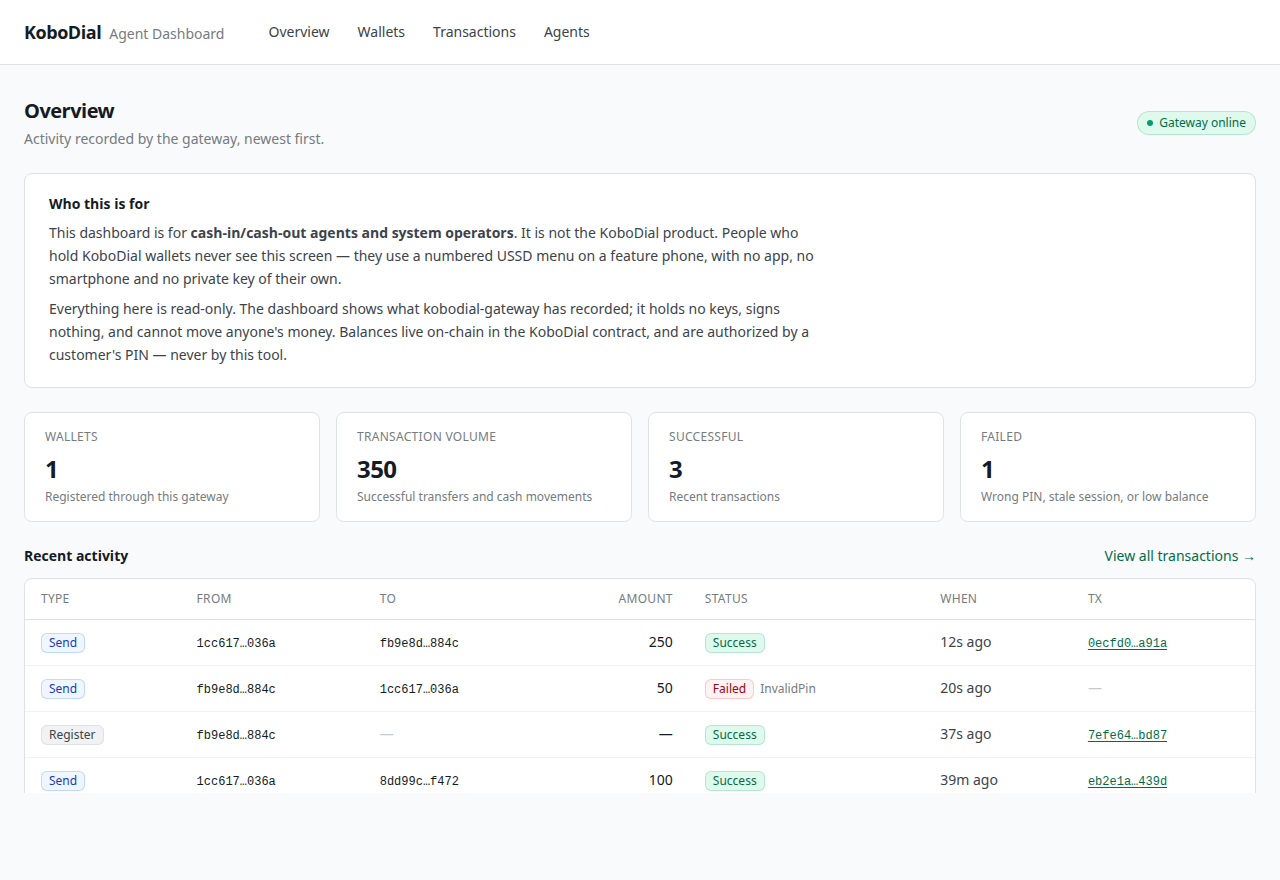
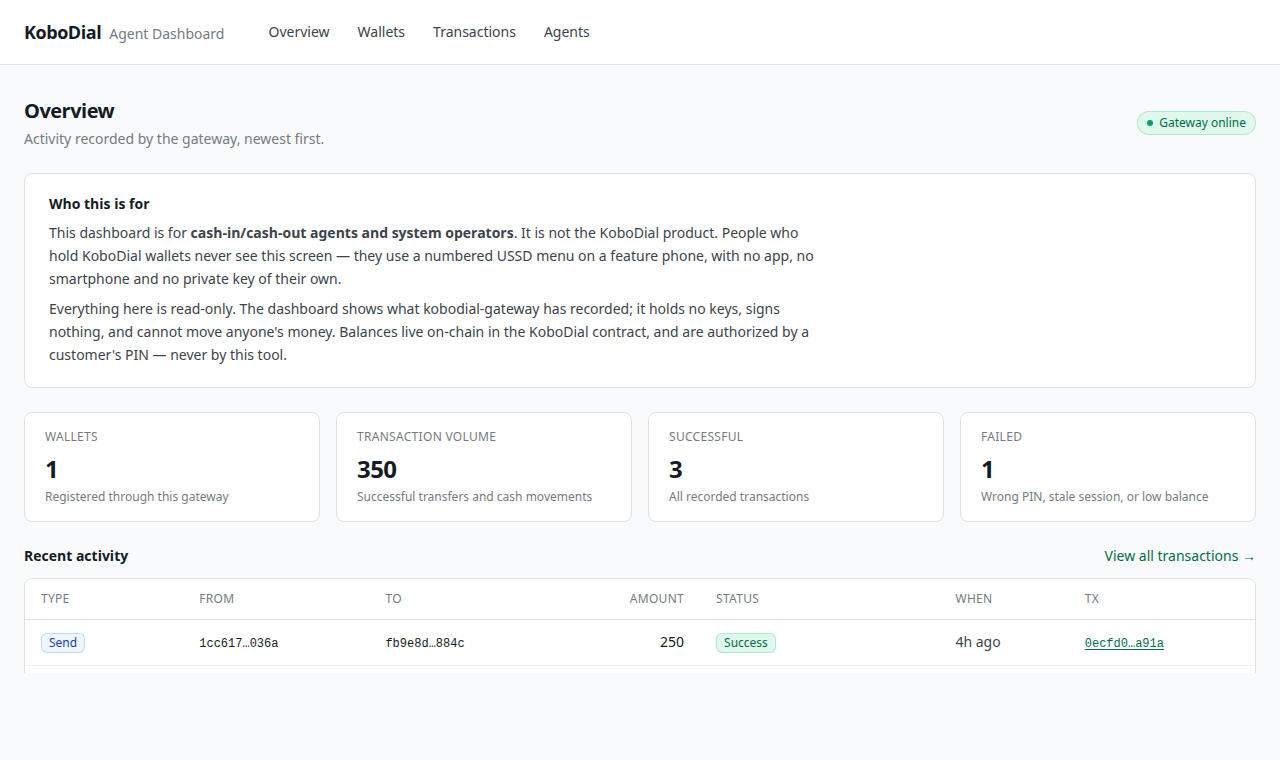
feat: filter and paginate server-side, using the gateway's totals (#7)
The transaction filter narrowed the rows the page had already fetched,
which answers a different question: the cash-outs among the newest 25
rows, not the newest cash-outs. With real traffic those diverge, and an
agent reconciling a day's cash-outs would get a wrong number that looks
right. The filter now goes to the gateway, which applies it across all
history.

Pagination used to infer the end of the list from receiving a short page,
so Next stayed enabled on a full final page and no position could be
shown. It now reads the gateway's total: 'Showing 26-50 of 143 · page 2
of 6', and an empty filtered view says 'No matching rows' rather than
looking like rows are withheld.

The overview's wallet count came from a capped 200-row fetch, so on a
busy deployment it would plateau at 200 and read as a real figure. It now
uses the reported total, and that call asks for one row instead of 200
since only the count is displayed. The successful/failed hint says how
many of the total it actually covers.

fetchWallets and fetchTransactions return PagedResult rather than bare
arrays, falling back to the row count when a total is absent so the
client still works against an older gateway build.

Screenshots recaptured against the running gateway.

diff --git a/lib/gateway.ts b/lib/gateway.ts
@@ -64,22 +64,74 @@ export interface Page {
   offset?: number;
 }
 
-function pageQuery({ limit, offset }: Page): string {
-  const params = new URLSearchParams();
-  if (limit !== undefined) params.set("limit", String(limit));
-  if (offset !== undefined) params.set("offset", String(offset));
-  const query = params.toString();
-  return query ? `?${query}` : "";
+/** Filters the gateway applies server-side, over all history rather than one page. */
+export interface TransactionQuery extends Page {
+  kind?: string;
+  status?: string;
 }
 
-export async function fetchWallets(page: Page = {}): Promise<Wallet[]> {
-  const body = await getJson<{ wallets: Wallet[] }>(`/wallets${pageQuery(page)}`);
-  return body.wallets ?? [];
+/**
+ * A page of rows together with how many exist in total.
+ *
+ * `total` counts every row matching the request's filters, not the rows
+ * returned — so a filtered view can say how many matches exist rather
+ * than inferring the end of the list from a short page.
+ */
+export interface PagedResult<T> {
+  rows: T[];
+  total: number;
+  limit: number;
+  offset: number;
 }
 
-export async function fetchTransactions(page: Page = {}): Promise<Transaction[]> {
-  const body = await getJson<{ transactions: Transaction[] }>(`/transactions${pageQuery(page)}`);
-  return body.transactions ?? [];
+function query(params: Record<string, string | number | undefined>): string {
+  const search = new URLSearchParams();
+  for (const [key, value] of Object.entries(params)) {
+    if (value !== undefined && value !== "") search.set(key, String(value));
+  }
+  const encoded = search.toString();
+  return encoded ? `?${encoded}` : "";
+}
+
+/**
+ * Older gateway builds answered with a bare `{ wallets: [...] }` and no
+ * total. Falling back to the row count keeps this client working against
+ * one rather than rendering "0 of 0" over a full table — the count is
+ * then merely the page size, which is what the old inference gave anyway.
+ */
+function paged<T>(
+  rows: T[] | undefined,
+  body: Partial<PagedResult<T>>,
+  fallback: Page,
+): PagedResult<T> {
+  const list = rows ?? [];
+  return {
+    rows: list,
+    total: body.total ?? list.length,
+    limit: body.limit ?? fallback.limit ?? list.length,
+    offset: body.offset ?? fallback.offset ?? 0,
+  };
+}
+
+export async function fetchWallets(page: Page = {}): Promise<PagedResult<Wallet>> {
+  const body = await getJson<{ wallets: Wallet[] } & Partial<PagedResult<Wallet>>>(
+    `/wallets${query({ limit: page.limit, offset: page.offset })}`,
+  );
+  return paged(body.wallets, body, page);
+}
+
+export async function fetchTransactions(
+  params: TransactionQuery = {},
+): Promise<PagedResult<Transaction>> {
+  const body = await getJson<{ transactions: Transaction[] } & Partial<PagedResult<Transaction>>>(
+    `/transactions${query({
+      limit: params.limit,
+      offset: params.offset,
+      kind: params.kind,
+      status: params.status,
+    })}`,
+  );
+  return paged(body.transactions, body, params);
 }
 
 /**

diff --git a/app/page.tsx b/app/page.tsx
@@ -1,7 +1,7 @@
 import Link from "next/link";
 import { fetchTransactions, fetchWallets, GatewayUnavailableError } from "@/lib/gateway";
 import { formatAmount } from "@/lib/format";
-import type { Transaction, Wallet } from "@/lib/types";
+import type { Transaction } from "@/lib/types";
 import { GatewayUnavailable } from "@/components/GatewayUnavailable";
 import { HealthBadge } from "@/components/HealthBadge";
 import { StatCard } from "@/components/StatCard";
@@ -53,15 +53,25 @@ function Explainer() {
 }
 
 export default async function OverviewPage() {
-  let wallets: Wallet[] = [];
   let transactions: Transaction[] = [];
+  let walletTotal = 0;
+  let transactionTotal = 0;
   let failure: string | undefined;
 
   try {
-    [wallets, transactions] = await Promise.all([
-      fetchWallets({ limit: 200 }),
+    const [walletPage, transactionPage] = await Promise.all([
+      // Only the count is shown for wallets, and the gateway reports it
+      // independently of the page — so ask for one row rather than 200.
+      fetchWallets({ limit: 1 }),
       fetchTransactions({ limit: 200 }),
     ]);
+    transactions = transactionPage.rows;
+    // Counts come from the gateway's own totals, not from the rows
+    // fetched here: these calls are capped, so a row count would
+    // silently plateau at the cap and read as a real figure rather
+    // than a truncated one.
+    walletTotal = walletPage.total;
+    transactionTotal = transactionPage.total;
   } catch (err) {
     failure = err instanceof GatewayUnavailableError ? err.message : String(err);
   }
@@ -90,7 +100,7 @@ export default async function OverviewPage() {
           <div className="grid gap-4 sm:grid-cols-2 lg:grid-cols-4">
             <StatCard
               label="Wallets"
-              value={String(wallets.length)}
+              value={String(walletTotal)}
               hint="Registered through this gateway"
             />
             <StatCard
@@ -98,7 +108,15 @@ export default async function OverviewPage() {
               value={formatAmount(totalVolume(transactions).toString())}
               hint="Successful transfers and cash movements"
             />
-            <StatCard label="Successful" value={String(successful)} hint="Recent transactions" />
+            <StatCard
+              label="Successful"
+              value={String(successful)}
+              hint={
+                transactionTotal > transactions.length
+                  ? `Of the ${transactions.length} most recent of ${transactionTotal}`
+                  : "All recorded transactions"
+              }
+            />
             <StatCard
               label="Failed"
               value={String(failed)}

diff --git a/components/Pagination.tsx b/components/Pagination.tsx
@@ -1,24 +1,33 @@
 import Link from "next/link";
 
 /**
- * Pagination over an API that reports no total count. The gateway's list
- * endpoints return a page and nothing else — no total, no "has more" —
- * so this infers the end the only way available: a page shorter than the
- * limit is the last one. That means Next is disabled exactly when a full
- * page happens to be the final page, which costs one empty page at worst
- * and never shows a wrong total.
+ * Pagination over the gateway's list endpoints, which report how many
+ * rows match the request as well as returning the page itself.
+ *
+ * That total is what makes the position honest: "Showing 26-50 of 143"
+ * rather than the old inference, where the end of the list was guessed
+ * from receiving a short page and Next stayed enabled on a final page
+ * that happened to be full.
+ *
+ * When a filter is active the total counts the filtered set, so an empty
+ * view reads as "0 of 0" — nothing matched — rather than looking like
+ * rows are being withheld.
  */
 export function Pagination({
   basePath,
   offset,
   limit,
   count,
+  total,
   extraParams = {},
 }: {
   basePath: string;
   offset: number;
   limit: number;
+  /** Rows on this page. */
   count: number;
+  /** Rows matching the request across all pages. */
+  total: number;
   extraParams?: Record<string, string | undefined>;
 }) {
   const buildHref = (nextOffset: number) => {
@@ -32,9 +41,11 @@ export function Pagination({
   };
 
   const hasPrev = offset > 0;
-  const hasNext = count === limit;
+  const hasNext = offset + count < total;
   const first = count === 0 ? 0 : offset + 1;
   const last = offset + count;
+  const page = Math.floor(offset / limit) + 1;
+  const pages = Math.max(1, Math.ceil(total / limit));
 
   const linkClass =
     "border-ink-200 text-ink-700 hover:bg-ink-100 rounded-md border bg-white px-3 py-1.5 text-sm font-medium transition-colors";
@@ -44,7 +55,9 @@ export function Pagination({
   return (
     <div className="flex flex-wrap items-center justify-between gap-3">
       <p className="text-ink-500 text-sm">
-        {count === 0 ? "No rows on this page" : `Showing ${first}–${last}`}
+        {total === 0
+          ? "No matching rows"
+          : `Showing ${first}–${last} of ${total} · page ${page} of ${pages}`}
       </p>
       <div className="flex gap-2">
         {hasPrev ? (

diff --git a/app/transactions/page.tsx b/app/transactions/page.tsx
@@ -23,15 +23,20 @@ export default async function TransactionsPage({
   const kind = params.kind && KINDS.has(params.kind) ? params.kind : undefined;
 
   let transactions: Transaction[] = [];
+  let total = 0;
   let failure: string | undefined;
 
   try {
-    transactions = await fetchTransactions({ limit, offset });
+    // The filter goes to the gateway, which applies it across all history.
+    // This page used to fetch a page and narrow it here, which answered a
+    // different question: the cash-outs among the newest 25 rows, rather
+    // than the newest cash-outs.
+    const result = await fetchTransactions({ limit, offset, kind });
+    transactions = result.rows;
+    total = result.total;
   } catch (err) {
     failure = err instanceof GatewayUnavailableError ? err.message : String(err);
   }
-
-  const visible = kind ? transactions.filter((tx) => tx.kind === kind) : transactions;
 
   return (
     <div className="space-y-6">
@@ -48,21 +53,14 @@ export default async function TransactionsPage({
         <>
           <TransactionFilter active={kind} limit={limit} />
 
-          {kind ? (
-            <p className="text-ink-500 text-sm">
-              Showing {visible.length} of {transactions.length} loaded rows. The gateway&apos;s API
-              has no type filter, so this narrows the current page rather than searching all
-              history.
-            </p>
-          ) : null}
-
-          <TransactionFeed transactions={visible} />
+          <TransactionFeed transactions={transactions} />
 
           <Pagination
             basePath="/transactions"
             offset={offset}
             limit={limit}
             count={transactions.length}
+            total={total}
             extraParams={{ kind }}
           />
         </>

diff --git a/app/wallets/page.tsx b/app/wallets/page.tsx
@@ -24,15 +24,19 @@ export default async function WalletsPage({
 
   let wallets: Wallet[] = [];
   let transactions: Transaction[] = [];
+  let total = 0;
   let failure: string | undefined;
 
   try {
     // Transactions come along to derive each wallet's last activity —
     // the gateway's /wallets has no such field.
-    [wallets, transactions] = await Promise.all([
+    const [walletPage, transactionPage] = await Promise.all([
       fetchWallets({ limit, offset }),
       fetchTransactions({ limit: 200 }),
     ]);
+    wallets = walletPage.rows;
+    total = walletPage.total;
+    transactions = transactionPage.rows;
   } catch (err) {
     failure = err instanceof GatewayUnavailableError ? err.message : String(err);
   }
@@ -49,7 +53,13 @@ export default async function WalletsPage({
       ) : (
         <>
           <WalletTable wallets={wallets} transactions={transactions} />
-          <Pagination basePath="/wallets" offset={offset} limit={limit} count={wallets.length} />
+          <Pagination
+            basePath="/wallets"
+            offset={offset}
+            limit={limit}
+            count={wallets.length}
+            total={total}
+          />
         </>
       )}
     </div>
